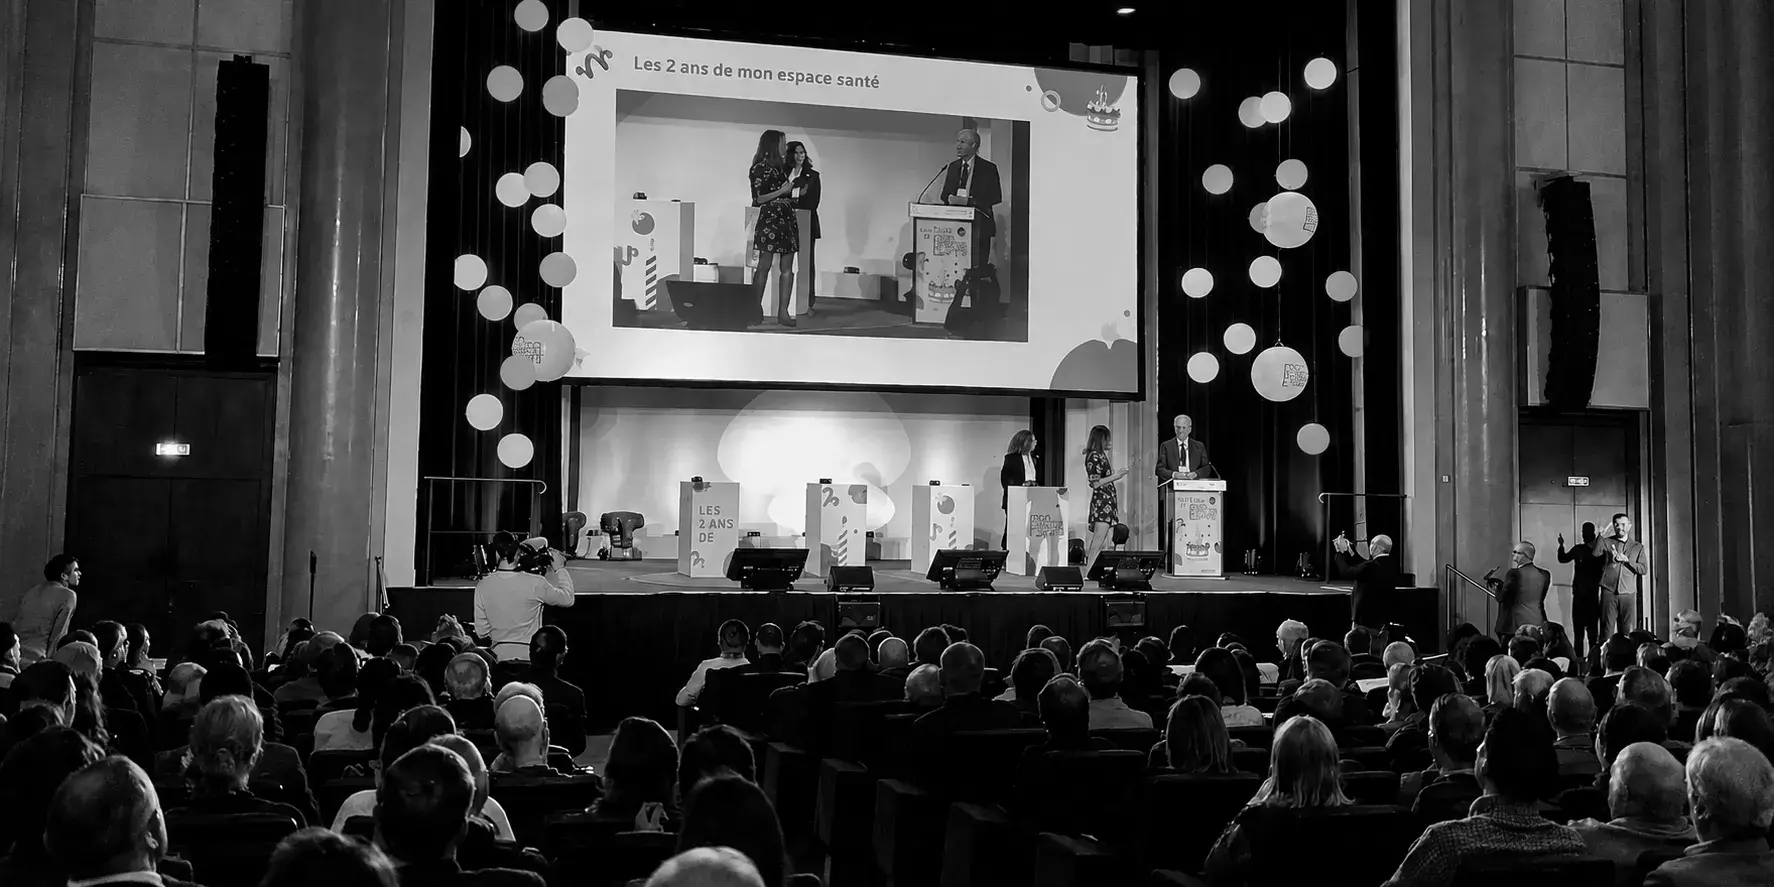
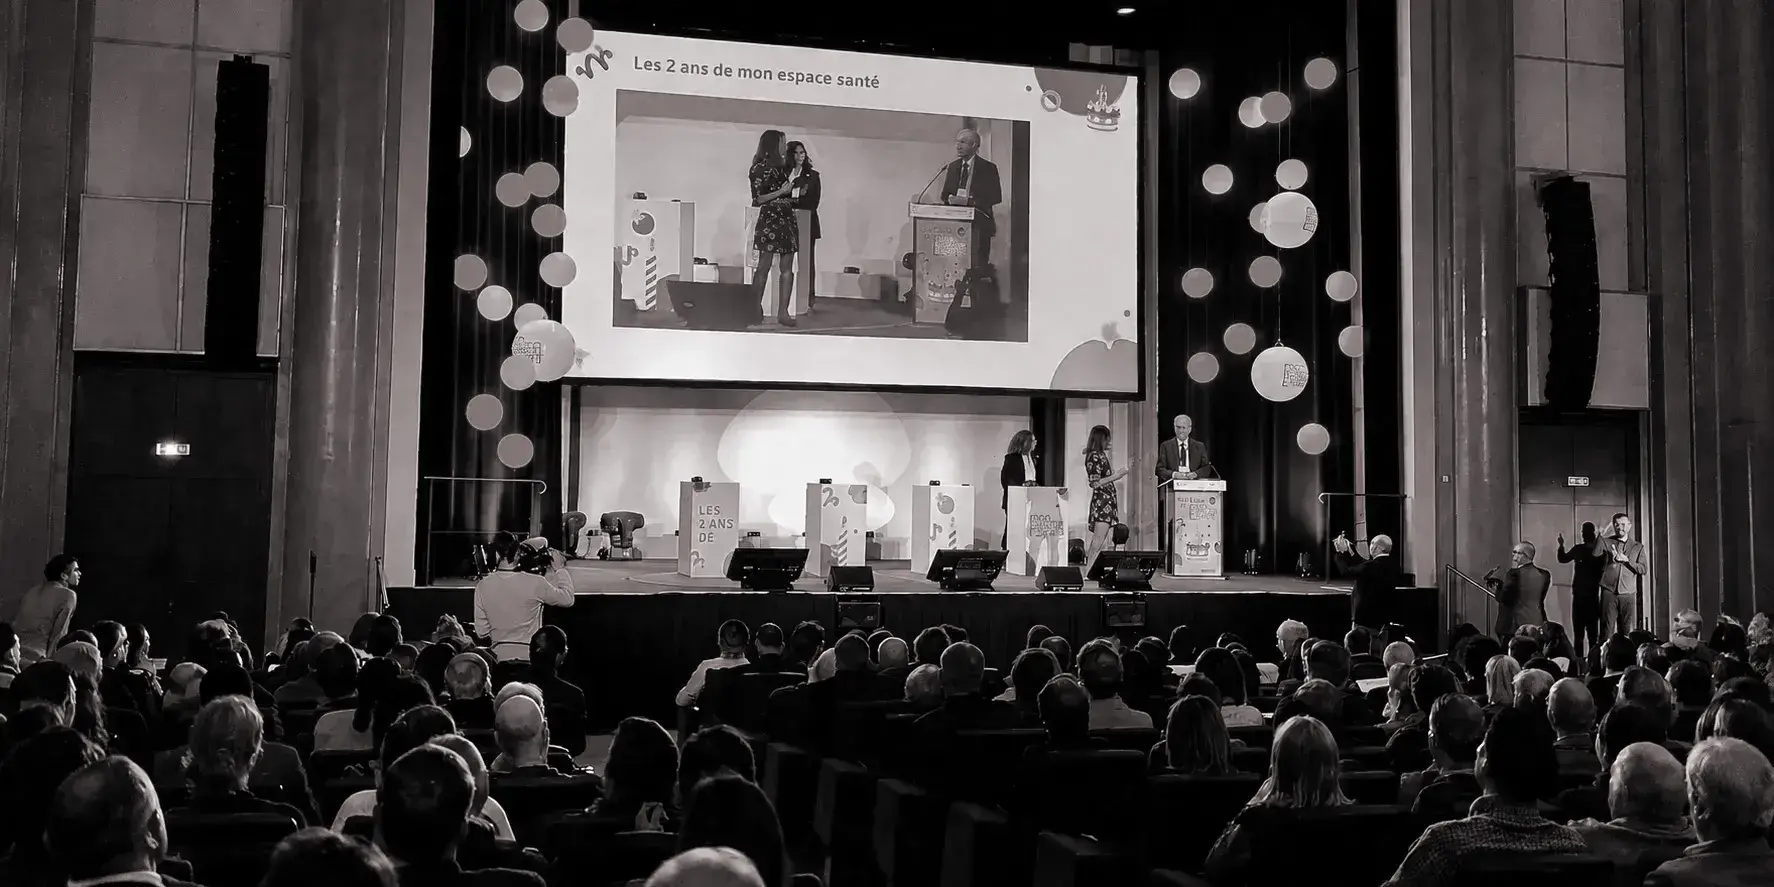
<develop> : change wording, add alts, change photo nb filter

diff --git a/index.html b/index.html
@@ -71,8 +71,6 @@
                 <img src="svgs/logo-100px.svg" class="header-logo" alt="">
                 <span class="brand-title font-bebas fs-6">
                     <span class="text-primary fw-bold">Maillols Event</span>
-                    <span aria-hidden="true"> | </span>
-                    <span class="text-secondary">Production événementielle</span>
                 </span>
             </a>
             <a href="#contactData" id="contactBtn"
@@ -104,9 +102,9 @@
             <figure class="plenary-figure mt-3 mb-0">
                 <figure class="image-reveal sceno-visual position-relative overflow-hidden mx-auto m-0">
                     <img src="/images/sceno.webp" class="base-image d-block w-100 h-auto"
-                        alt="Croquis d’une scénographie événementielle">
+                        alt="Croquis d’un espace scénographié composé de différentes zones d’échanges et de circulation.">
                     <img src="/images/sceno-color.png" class="color-image position-absolute top-0 start-0 w-100 h-auto"
-                        alt="" aria-hidden="true">
+                        alt="Croquis d’un espace scénographié composé de différentes zones d’échanges et de circulation." aria-hidden="true">
                 </figure>
                 <figcaption
                     class="wide-caption d-flex align-items-start justify-content-between mx-auto mt-2 mb-2 font-bebas fs-caption text-secondary">
@@ -133,12 +131,12 @@
                     <li>Scénographies &amp; Créations sur mesure</li>
                 </ul>
             </div>
-
             <div class="photo-grid row g-3 g-md-4 mx-auto px-4 px-md-0">
+                <span class="fst-italic photo-caption font-bebas fs-caption text-secondary mb-2 mt-0 text-center text-md-start">Quelques références / Pilotage & coordination générale</span>
                 <figure class="event-figure col-12 col-md-6 m-0">
                     <div class="image-reveal position-relative overflow-hidden">
-                        <img src="/images/stand-bouygues.webp" class="base-image d-block w-100 h-auto" alt="Accueil du public et gestion des flux lors d’un événement">
-                        <img src="/images/stand-bouygues-color.webp" class="color-image position-absolute top-0 start-0 w-100 h-auto" alt="" aria-hidden="true">
+                        <img src="/images/stand-bouygues.webp" class="base-image d-block w-100 h-auto" alt="Structure circulaire composée de cinq panneaux imprimés recto verso, avec sol en lino imprimé. (NB)">
+                        <img src="/images/stand-bouygues-color.webp" class="color-image position-absolute top-0 start-0 w-100 h-auto" alt="Structure circulaire composée de cinq panneaux imprimés recto verso, avec sol en lino imprimé." aria-hidden="true">
                     </div>
                     <figcaption
                         class="photo-caption d-flex justify-content-between py-3 py-md-4 font-bebas fs-caption text-secondary">
@@ -148,9 +146,9 @@
                 <figure class="event-figure col-12 col-md-6 m-0">
                     <div class="image-reveal position-relative overflow-hidden">
                         <img src="/images/doty.webp" class="base-image d-block w-100 h-auto"
-                            alt="Animation artistique extérieure avec une troupe sur échasses">
+                            alt="Podium en forme du logo Groupe Renault installé sur la piscine, entouré de stèles avec trophées et nominés portant le drapeau de leur pays. (NB)">
                         <img src="/images/doty-color.webp"
-                            class="color-image position-absolute top-0 start-0 w-100 h-auto" alt="" aria-hidden="true">
+                            class="color-image position-absolute top-0 start-0 w-100 h-auto" alt="Nouvelle Renault Twingo dans un tunnel de cercles rouges, devant un écran géant diffusant le véhicule." aria-hidden="true">
                     </div>
                     <figcaption
                         class="photo-caption d-flex justify-content-between py-3 py-md-4 font-bebas fs-caption text-secondary">
@@ -161,9 +159,9 @@
                 <figure class="event-figure col-12 col-md-6 m-0">
                     <div class="image-reveal position-relative overflow-hidden">
                         <img src="/images/sceno-renault.webp" class="base-image d-block w-100 h-auto"
-                            alt="Accueil du public et gestion des flux lors d’un événement">
+                            alt="Nouvelle Renault Twingo dans un tunnel de cercles rouges, devant un écran géant diffusant le véhicule. (NB)">
                         <img src="/images/sceno-renault-color.webp"
-                            class="color-image position-absolute top-0 start-0 w-100 h-auto" alt="" aria-hidden="true">
+                            class="color-image position-absolute top-0 start-0 w-100 h-auto" alt="Nouvelle Renault Twingo dans un tunnel de cercles rouges, devant un écran géant diffusant le véhicule." aria-hidden="true">
                     </div>
                     <figcaption
                         class="photo-caption d-flex justify-content-between py-3 py-md-4 font-bebas fs-caption text-secondary">
@@ -172,22 +170,22 @@
                 <figure class="event-figure col-12 col-md-6 m-0">
                     <div class="image-reveal position-relative overflow-hidden">
                         <img src="/images/stand-prod-laitiers.webp" class="base-image d-block w-100 h-auto"
-                            alt="Animation artistique extérieure avec une troupe sur échasses">
+                            alt="Stand ouvert avec grandes colonnes intégrant des vitrines et une enseigne haute ronde Les Produits Laitiers. (NB)">
                         <img src="/images/stand-prod-laitiers-color.webp"
-                            class="color-image position-absolute top-0 start-0 w-100 h-auto" alt="" aria-hidden="true">
+                            class="color-image position-absolute top-0 start-0 w-100 h-auto" alt="Stand ouvert avec grandes colonnes intégrant des vitrines et une enseigne haute ronde Les Produits Laitiers." aria-hidden="true">
                     </div>
                     <figcaption
                         class="photo-caption d-flex justify-content-between py-3 py-md-4 font-bebas fs-caption text-secondary">
-                        <span>STAND — « SALON DE L’AGRICULTURE »</span><span>LES PRODUITS LAITIERS</span></figcaption>
+                        <span>« SALON DE L’AGRICULTURE »</span><span>LES PRODUITS LAITIERS</span></figcaption>
                 </figure>
             </div>
 
             <figure class="plenary-figure mt-4 mb-0">
                 <div class="image-reveal position-relative overflow-hidden w-100">
-                    <img src="/images/pleniere-03.webp" class="base-image d-block w-100 h-auto"
-                        alt="Conférence en plénière devant un public dans un auditorium">
+                    <img src="/images/pleniere-03.webp?v=123456789" class="base-image d-block w-100 h-auto"
+                        alt="Scène avec quatre stèles et un pupitre habillés, ballons lumineux suspendus et grand écran en fond. (NB)">
                     <img src="/images/pleniere-03-color.webp"
-                        class="color-image position-absolute top-0 start-0 w-100 h-auto" alt="" aria-hidden="true">
+                        class="color-image position-absolute top-0 start-0 w-100 h-auto" alt="Scène avec quatre stèles et un pupitre habillés, ballons lumineux suspendus et grand écran en fond." aria-hidden="true">
                 </div>
                 <figcaption
                     class="wide-caption d-flex align-items-start justify-content-between mx-auto mt-2 mt-md-3 mb-4 font-bebas fs-caption text-secondary">
